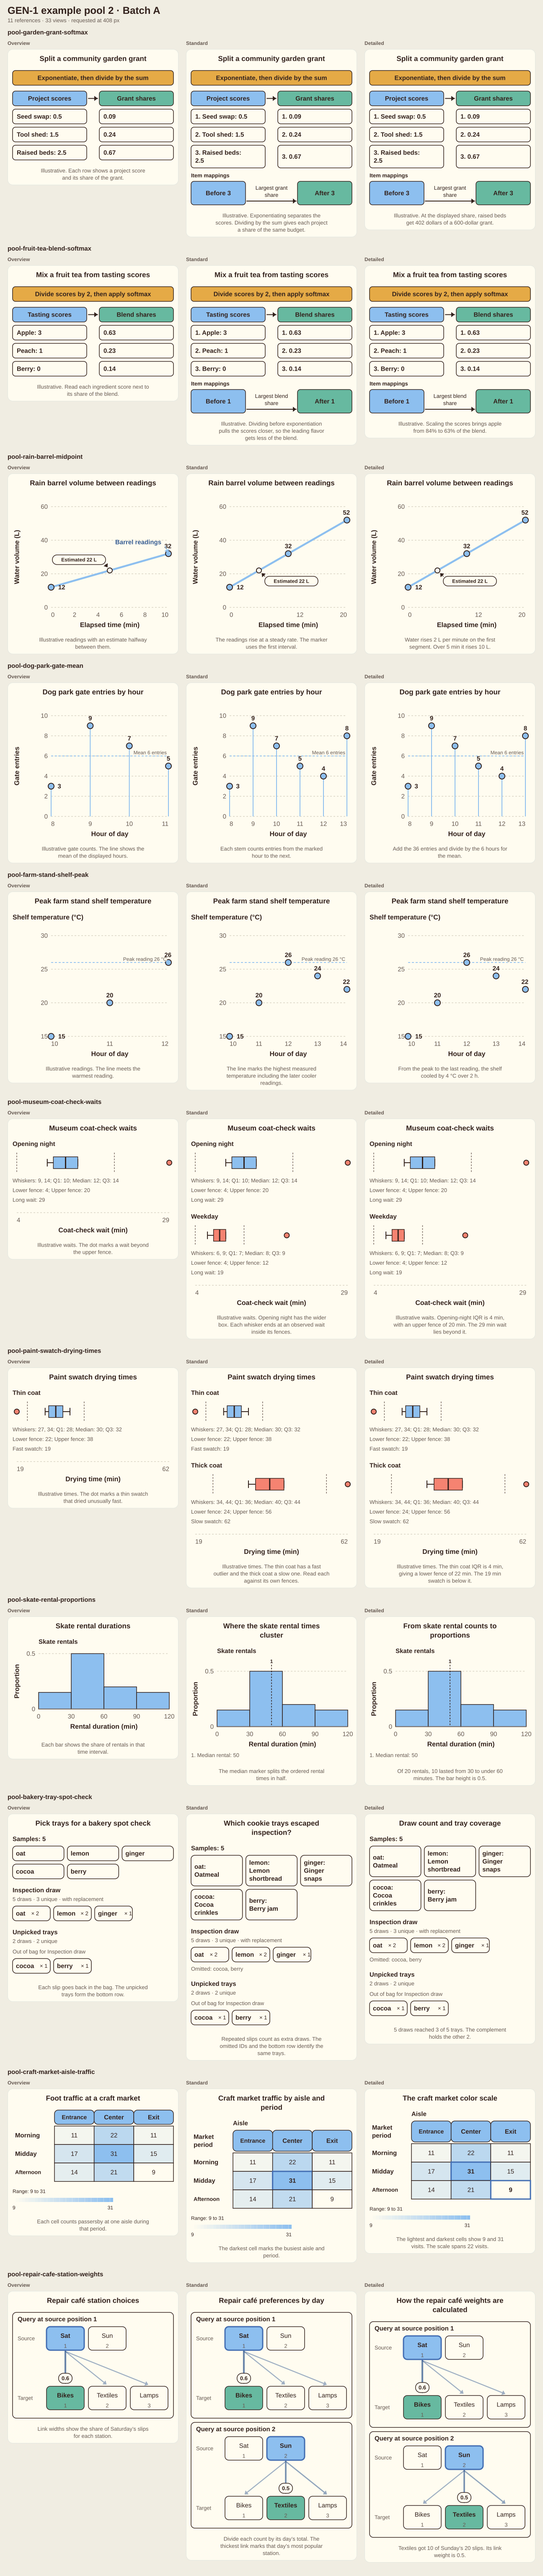
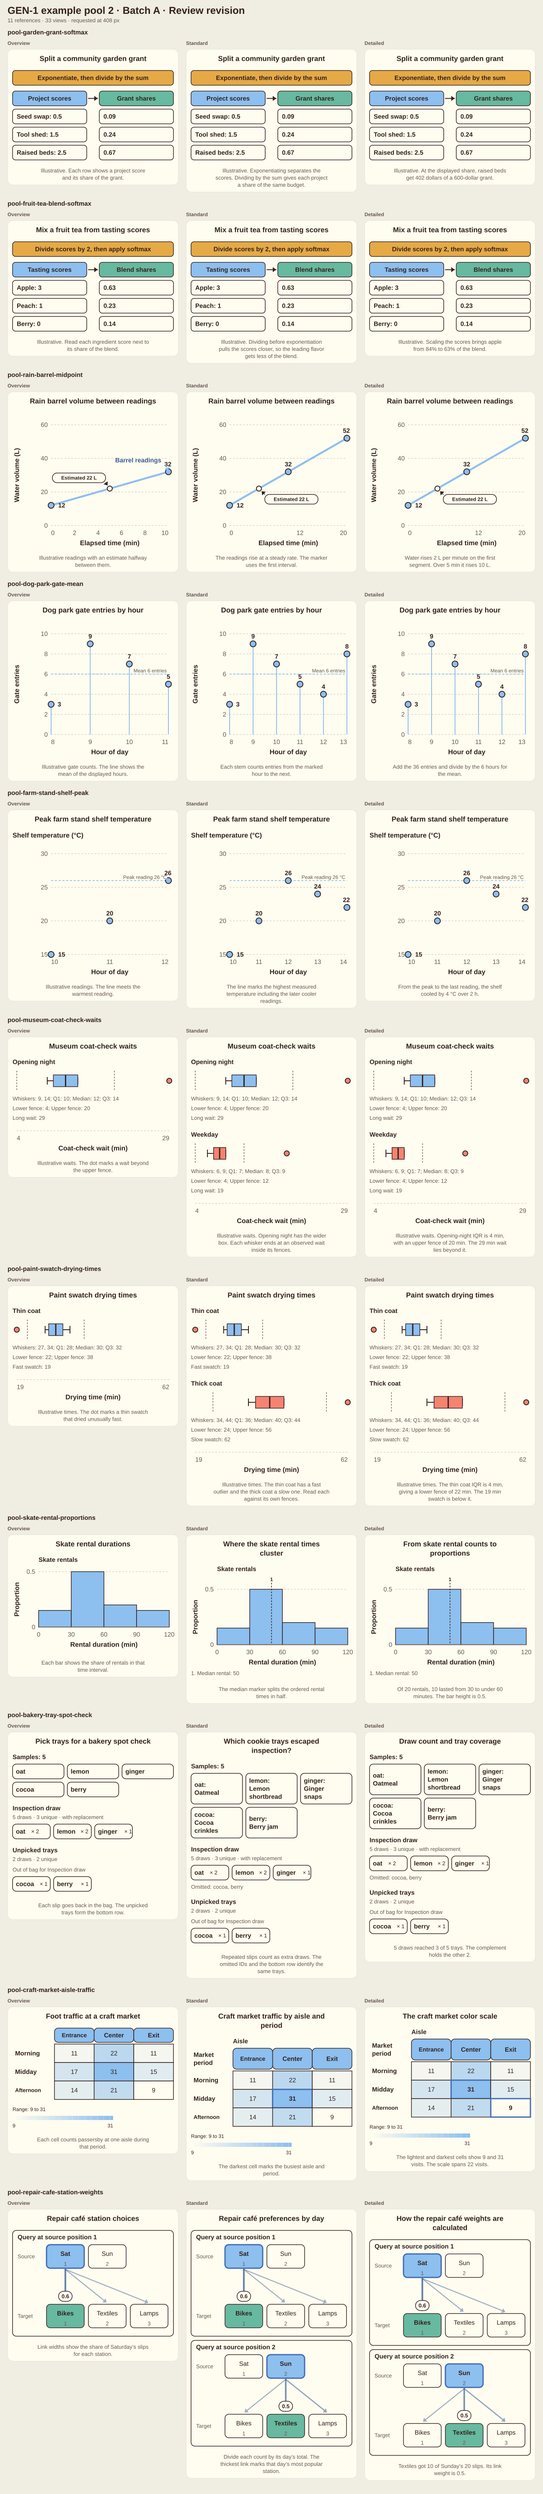
Publish the reviewed pool and C03 sheets

diff --git a/docs/features/explain/checks/codex/explain/gen-1-pool-2/batch-a/README.md b/docs/features/explain/checks/codex/explain/gen-1-pool-2/batch-a/README.md
@@ -1,20 +1,19 @@
-# GEN-1 example pool 2 · Batch A
+# GEN-1 example pool 2 · Batch A review revision
 
-Source commit `8ebb70e353a4b9e16204db99afba584625991e21` on `explain/gen-1-pool-2`, based on release 164 (`a88949c27`).
-The sheet has 33 diagrams at native 408 px.
+Source commit `e88f0ab873b0e933699cdf1b2767cda1ba2e1bb4` adds the accepted adjustment on top of `bda73b91d`.
 
-The source exercises all seven derived rows. The transformation lists and plot annotations leave their computed results to the parser. Both box-plot references retain raw observations in their data file and leave the fences to code. The proportion histogram and token-links provide counts, the sample set provides a replacement draw, and the heatmap provides cells without a fixed scale.
+Standard and Detailed omit item-link rows for the garden grant and fruit tea softmax examples. The Detailed captions retain the leading-share calculations.
 
-The bakery example computes the out-of-bag group. Release 164 renders the word “draws” beside every group tally, including the unpicked group.
+The refreshed sheet contains all 33 views at native 408 px. The four changed views have new SVG digests.
 
 ## Compact tokens
 
-Each cell is authored / parser-completed `{id, spec}`, measured with `cl100k_base`.
+Each cell shows authored and parser-completed counts for `{id, spec}` with `cl100k_base`.
 
 | Reference | Overview | Standard | Detailed |
 | --- | ---: | ---: | ---: |
-| `pool-garden-grant-softmax` | 109 / 124 | 136 / 151 | 132 / 147 |
-| `pool-fruit-tea-blend-softmax` | 109 / 124 | 136 / 151 | 133 / 148 |
+| `pool-garden-grant-softmax` | 109 / 124 | 118 / 133 | 114 / 129 |
+| `pool-fruit-tea-blend-softmax` | 109 / 124 | 117 / 132 | 114 / 129 |
 | `pool-rain-barrel-midpoint` | 152 / 155 | 165 / 168 | 172 / 175 |
 | `pool-dog-park-gate-mean` | 170 / 173 | 183 / 186 | 187 / 190 |
 | `pool-farm-stand-shelf-peak` | 162 / 165 | 179 / 182 | 187 / 190 |
@@ -25,12 +24,13 @@ Each cell is authored / parser-completed `{id, spec}`, measured with `cl100k_bas
 | `pool-craft-market-aisle-traffic` | 103 / 113 | 125 / 135 | 142 / 152 |
 | `pool-repair-cafe-station-weights` | 85 / 91 | 108 / 120 | 109 / 121 |
 
-## Verification
+## Checks
 
-- The planner and selector replay moved zero first picks and zero planner kinds across 3,057 existing catalogue cases and 474 saved cases. All 33 new prompt-depth cases picked their intended reference.
-- All 18 new data and reference tests passed. The focused suites passed 538 tests, including the lazy loader and SVG snapshot tests.
-- Added 33 new snapshot entries. Existing hashes match release 164 and preceding commits.
+- Passed all 43 focused tests, including the SVG fingerprints, content contract, pool data, lazy library and board-link audit.
+- Regenerated six fingerprints for the two softmax references at 320, 408 and 720 px.
+- Compared the accepted and revised reference objects. The only difference is the removal of the item links.
+- The reference linter reports no errors and two warnings because Overview and Standard now have equal element counts.
 
-[Per-depth token and schema checks](tokens.json) · [Planner replay](replay.json) · [Preview dimensions](preview-layout.json)
+[Token counts and schema checks](tokens.json) · [Preview dimensions](preview-layout.json) · [Fingerprint changes](snapshots.json) · [Reference comparison](selector-inputs.json)
 
-![Contact sheet at 408 px per diagram](contact-sheet.png)
+![Batch A reviewed at 408 px per view](contact-sheet.png)

diff --git a/docs/features/explain/checks/codex/explain/composition-r2/c03/README.md b/docs/features/explain/checks/codex/explain/composition-r2/c03/README.md
@@ -1,26 +1,24 @@
-# C03 · Transformer at release 164
+# C03 · Reviewed labels
 
-Branch `explain/composition-c03-r2` at `5e5381dff2bb03193cb205f994049dbaa711137b`. The prerequisite C01/C02 carryover is `4da7d85dc3356700923dc9a6cab676a132f2009a` on main `a88949c27`.
-The tranche adds three references and three existing-reference overlays. The context-rules panels comparison has an authored matrix single.
+Source commit `83727c378cc48644d5186952051b11453121fedc` on `explain/composition-c03-r2` follows the accepted `5e5381dff`.
+
+The layer blocks and Detailed caption show W₁ and W₂. The weighted source context chart for “nous” labels its unchanged values 1.436 and 0.564 as Feature 1 and Feature 2.
 
 ## Compact token counts
 
-Measured on compact `{id, spec}` with `cl100k_base`. Cells with different authored and parser-completed counts show both.
+Counts use compact `{id, spec}` and `cl100k_base`. Where the parser changes the count, the cell shows authored / completed.
 
 | Reference | Overview | Standard | Detailed | Detailed companion | Author single |
 | --- | ---: | ---: | ---: | ---: | ---: |
-| `ml-transformer-cross-attention-alignment` | 114 | 149 | 109 / 108 | 145 | — |
+| `ml-transformer-cross-attention-alignment` | 114 | 149 | 111 / 110 | 145 | — |
 | `ml-transformer-context-rules` | 104 | 236 | 245 | 127 | 105 |
 | `ml-transformer-encoder-decoder-memory` | 194 | 194 | 197 | — | — |
-| `ml-transformer-contextual-layer-states` | 132 | 185 | 191 | 138 | — |
+| `ml-transformer-contextual-layer-states` | 132 | 187 | 195 | 138 | — |
 | `ml-transformer-positionwise-feedforward` | 231 | 230 | 237 | — | — |
 | `ml-transformer-original-decoder-sublayers` | 213 | 224 | 230 | — | — |
 
-## Verification
+The three affected views changed and the other 19 SVG view hashes match the accepted sheet. The contextual-layer-states snapshots were refreshed at 320, 408, and 720 px. The weighted chart appears at Detailed, while the snapshot catalogue captures the registered Standard view.
 
-- The production replay moved zero first picks and zero planner kinds across 3,057 existing catalogue cases and 474 saved cases. At all three depths, 22 prompts selected a new reference and seven new prompts selected the intended existing reference. [Replay](planner-replay.json) · [New prompts](new-prompts.md)
-- All 1,543 affected tests passed, including arithmetic, actual author requests, the content contract, snapshots, and the lazy library accessor. The reference and overlay linters returned zero findings. The web build passed. [Linter](lint.json) · [Spec verification](tokens.json)
-- The three new references add nine snapshot entries at the repository snapshot widths.
-- The sheet contains 22 views at a requested width of 408 px. Five have native widths of 444–524 px and fit to the column. The reused decoder repeat bracket crosses the readable ×6 marker. [Preview dimensions](preview-layout.json)
+All 27 affected tests passed, including arithmetic, author reference selection, the lazy library accessor, and snapshots. All 22 specs passed with zero schema or content errors. The maximum compact count is 245 and the reference linter found zero issues. [Spec verification](tokens.json) · [Linter](lint.json) · [View changes](render-changes.json) · [Snapshot changes](snapshot-changes.json)
 
 ![C03 contact sheet at 408 px per diagram](contact-sheet.png)
